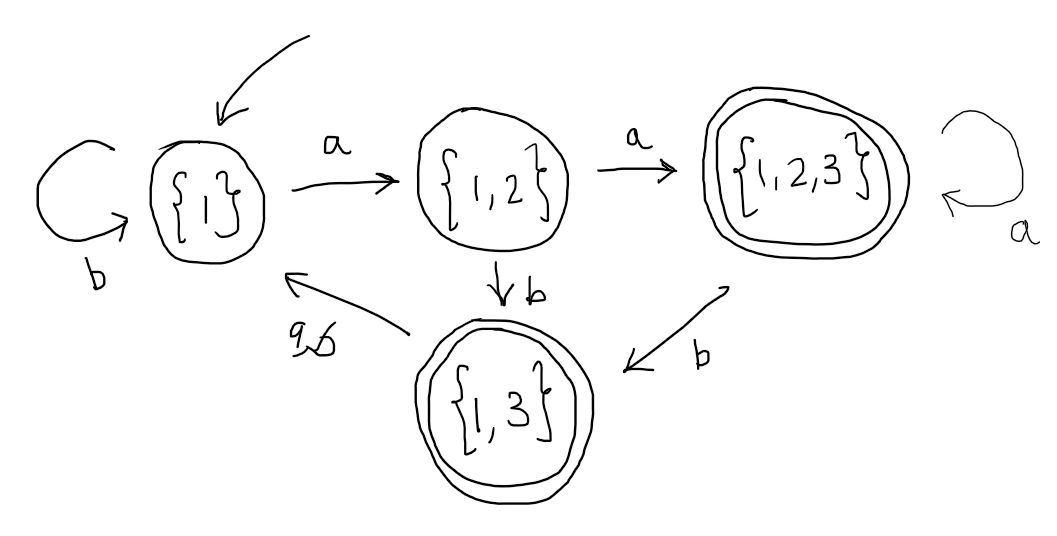
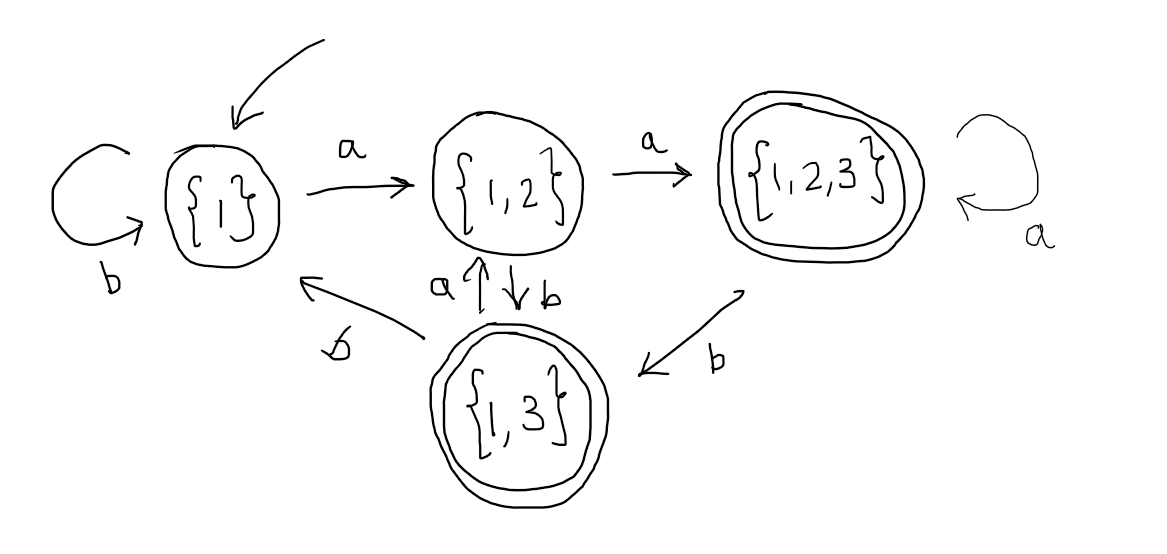
determinism notes

diff --git a/regular/determinsim.md b/regular/determinsim.md
@@ -1,0 +1,190 @@
+---
+layout: math
+title: Determinism
+nav_order: 8
+mathjax: true
+parent: Regular Expressions
+---
+
+# Determinism
+
+We have sometimes called the computations that can performed by regular expressions or finite automata *non-deterministic*.  Intuitively, it means that there are arbitrary choices that the computation can make, and that we consider a computation to have *succeeded* (e.g. that a word is accepted) just if there is *some* way to make the right choices.
+
+Strictly speaking, it should be called *existential* (referring to *some* above) or *angelic* non-determinism, because there is another dual, kind of non-determinism: in *universal* nondeterminism we only consider a computation to have succeeded if all choices lead to success. However, we will not examine universal non-determinism in this unit.  
+
+Finite automata that *do not* have arbitrary choices to make are called *deterministic*.  At any point in time, their behaviour is uniquely *determined* by their current state and the next letter of the input.  This is guaranteed by the following definition.
+
+{: .defn }
+A finite automaton $$(Q,\,\Sigma,\,\Delta,\,q_0,\,F)$$ is called __deterministic__ just if there are no $\epsilon$-transitions and, for each pair $(q,a) \in Q \times \Sigma$ of state and letter, there is exactly one state $p$ that the machine can transition to, i.e. $$(q,a,p)$$ is the only element of $\Delta$ with first two components being $q$ and $a$ respectively.
+
+It is easy to check the diagram of a finite automaton to see if it is deterministic, you just need to check that, for each state, there is exactly one transition coming out of that state for each letter of the alphabet, and no others.  
+
+The following automaton, which recognises the language of words over $\{a,b,c\}$ that contain $abc$ as a substring.  It is deterministic because, if we put our finger on any state, we will find exactly three outgoing transitions, one labelled $a$, one labelled $b$ and the other labelled $c$.
+
+<img src="../assets/automata/deterministic-abc.png" style="max-width:400px">
+
+Deterministic finite automata (DFA) have some great properties.  First and foremost, if we fix a word to give to the automaton as input, there is exactly one run over that word.  On the one hand, the automaton never gets stuck whilst processing a word: suppose it is in some state $q$ and the next letter is $a$, well the definition says that there is a transition out of state $q$ labelled by letter $a$, so progress can be made by taking that transition.  On the other hand, there are no choices, there is only one transition out of each state labelled with a given letter.
+
+This means that deciding whether a deterministic automaton accepts a given word is easier.  We no longer have to *find* an accepting run, we just follow the only applicable transition in each state until we have consumed the whole word and check that the state we reach at the end is accepting.  Conversely, we no longer have to reason about all possible runs over a given word $w$ to show that $w$ is *not accepted*, because there is only one possible run.
+
+A consequence of this is that it is very easy to express the complement of a language when the original language is expressed as a deterministic finite automaton.  All we need to do is to take the original automaton and swap the status of accepting and non-accepting states.
+
+{% include defn_complement.liquid %}
+
+If $M$ accepts a word $w$ then, since $M$ is deterministic, there is a unique run over $w$ and it must end in an accepting state, say $q \in F$.  The automaton $\bar{M}$ has the same states and the same transitions, so it will have the same run over $w$ but, in $\bar{M}$, $q$ is now a non-accepting state.  Since $\bar{M}$ must also be deterministic, this is the only run over $w$, so $w$ is rejected.
+
+## Non-determinism as a programming paradigm
+
+So, then why do we not just restrict our attention to DFA?  Non-determinism is a feature that we can use to make designing automata (and programs) easier.  For example, the DFA given above recognises the language $$\{w \in \{a,b,c\} \mid \text{$w$ contains $abc$ as a substring} \}$$, but it is rather complicated.  Compare with a non-deterministic finite state automaton (NFA) that recognises the same language:
+
+<img src="../assets/automata/nondeterministic-abc.png" style="max-width:400px">
+
+If you are comfortable with the idea of non-determinism, then I would argue that this second automaton is a much clearer expression of the language of words containing a substring $abc$.
+
+The conceptually difficult part of understanding non-determinism is grasping that you cannot necessarily tell if a word is accepted from a single run of the machine: in an non-deterministic finite automata (NFA) if a particular run is not accepting (does not end in an accepting state, or does not even consume the whole word), you cannot know for certain that the word is rejected, because there may be another run over the same word that *is* accepting.  So, it does not fit with our everyday experience of machines, which is that they take an input, do some processing and, on the basis of this processing, make a decision (in this case ACCEPT or REJECT).
+
+However, there is an informal but popular way to understand non-determinism that does fit with our model of machines described in the previous sentence.  According to this, we think of the machine performing a single run and making the decision at the end of the run, but the machine has the special power of being able to *correct guesses*.  What this means is that, when presented with a choice of transition due to nondeterminism, the machine will always take a transition that leads eventually to an accepting state.  Of course, this power to seemingly see into the future also does not accord with our everyday understanding of machines, but we will resolve this shortly.
+
+For now, I want you to know that this special power of making *correct guesses* leads to a new tool that you can use in the design of finite automata.  If you can rephrase the property of strings that you are looking to express as *guess X, then verify X*, it becomes amenable to non-determinism.  For example, the property of having $abc$ as a substring can be reformulated as "guess where the substring $abc$ starts, then verify that the next three letters are $abc$".  This is the strategy employed by the previous automaton.
+
+Earlier, we saw the automaton that accepts words that either have an even number of $1$ or contain the substring $aa$.
+
+<img src="../assets/automata/substrings.png" style="max-width:400px">
+
+The design of this automaton is based on "guess whether the word contains $aa$ or has an even number of $1$s, then verify that".
+
+Suppose we want to design an automaton to recognise the language $$\{wa\ell \mid w \in \{a,b\}^*, \ell \in \{a,b\} \}$$ of words over $$\{a,b\}$$ that have an $a$ in the second to last position.  A DFA for this language requires some serious thought, but an NFA is quite straightforward: whenever we see an $a$, we guess whether or not we have come to the second to last letter, and if we guess so, then verify it is second to last.
+
+<img src="../assets/automata/a-2nd-to-last.png" style="max-width:400px">
+
+More advanced general purpose programming languages, like Haskell, also allow you to program with non-determinism.  In Haskell, non-determinism is treated as an effect, so it can be implemented using the Monad interface.
+
+To see an example of what it looks like, consider the old constraint satisfaction puzzle:
+
+<img src="../assets/automata/send-more-money.png" style="max-width:300px">
+
+The problem is to find an assignment of *distinct* digits $0$--$9$ to the letters $S$, $E$, $N$, $D$, $M$, $O$, $R$ and $Y$ such that the equation is satisfied.  For example, one solution is to assign as follows:
+
+$$
+  \begin{array}{c}
+    S = 2\\
+    E = 8\\
+    N = 1\\
+    D = 7\\
+    M = 0\\
+    O = 3\\
+    R = 6\\
+    Y = 5
+  \end{array}
+$$
+
+Since then the equation is satisfied:
+
+<img src="../assets/automata/smm-soln.png" style="max-width:300px">
+
+I discovered this solution using the following Haskell program:
+
+~~~ haskell
+digits = [0..9]
+
+sendMoreMoney =
+  do s <- digits
+     e <- digits \\ [s]
+     n <- digits \\ [s,e]
+     d <- digits \\ [s,e,n]
+     m <- digits \\ [s,e,n,d]
+     o <- digits \\ [s,e,n,d,m]
+     r <- digits \\ [s,e,n,d,m,o]
+     y <- digits \\ [s,e,n,d,m,o,r]
+     guard (y == (d + e) `mod` 10)
+     let c1 = (d + e) `quot` 10
+     guard (e == (n + r + c1) `mod` 10)
+     let c2 = (n + r + c1) `quot` 10
+     guard (n == (e + o + c2) `mod` 10)
+     let c3 = (e + o + c2) `quot` 10
+     guard (o == (s + m + c3) `mod` 10)
+     guard (m == (s + m + c3) `quot` 10)
+     return (s,e,n,d,m,o,r,e,m,o,n,e,y)
+~~~
+
+I am not going to explain this Haskell program in detail, but if you understand how Monads work, then you can look up the list monad in order to see the nuts and bolts of what is going on.  However, at a conceptual level, the program first non-deterministically *guesses* the digit that should be assigned to $s$, which can be any digit, the digit that should be assigned to $e$, which can be any digit other than the digit assigned to $s$, the digit assigned to $n$, which can be any digit except that chosen for $s$ or $e$ and so on.  Then it simply *verifies* that the equation is satisfied by those choices, i.e. that the digit assigned to $y$ is the sum of the two digits assigned to $d$ and $e$ modulo $10$ and so on.  Finally, we just return the assignment.
+
+## Determinisation
+
+Of course, in the end we must run this Haskell program on a real machine, and we will want to run our finite automata on a real machine too in order to match strings.  Unfortunately, real machines do not have the power to make magic *correct guesses*.  Luckily, we can always compile finitary non-determinism down into something more mundane (and deterministic), just by exploring all the possibilities at once.  This process is called *determinisation*.
+
+I will describe the determinisation of finite automata.  Given any finite automaton $M$, we can mechanically (by an algorithm) construct a new, *deterministic* finite automaton $N$ which recognises the same language as $M$, i.e $L(N) = L(M)$.  It can be done in one step, but we will do it in two so that the explanation is a bit clearer.  
+
+First we remove any epsilon transitions from $M$.  We could use the $\epsilon$-closure operator that you saw in the previous problem sheet for this, or we can just compute, for each pair of states $p$ and $q$ of $M$, whether it is possible to reach $q$ from $p$ whilst reading in a single letter $a$.  Using this idea, we can create a new automaton as follows:
+
+{% include defn_e_closure.liquid %}
+
+This automaton $$\epsilon^*(M)$$ recognises the same language as $M$: $$L(\epsilon^*(M)) = L(M)$$, but does not use any $\epsilon$-transitions.  So, since we can always construct an automaton $$\epsilon^*(M)$$ that is equivalent to the automaton $M$ we are interested in, we may as well assume that the automaton we are interested in does not have $\epsilon$-transitions.
+
+Given an automaton $N$ without $\epsilon$-transitions, we can determinise the automaton by constructing a new automaton $$\pow(N)$$ which simulates a version of $N$ running all non-deterministic choices simultaneously.
+
+As usual, the first step in designing $$\pow(N)$$ is to think about what the automaton will need to remember in between reading in each letter.  Take a look at the automaton above again, reproduced here for convenience:
+
+<img src="../assets/automata/a-2nd-to-last.png" style="max-width:400px">
+
+Imagine a kind of parallel version of this automaton, in which all non-deterministic choices can be taken simultaneously.  We would start in state 1 as usual, then if we see an $a$, the machine would somehow take both $a$ transitions simultaneously, and be in *both* state $1$ and state $2$.  Now suppose it sees another $a$ after that.  From state $1$ it can again stay in state $1$ or go to state $2$, and from state $2$ (remember, it took two transitions simultaneously, so it was in both state $1$ and state $2$ at the same time) it can only go to state $3$.  So, if we take all these transitions simultaneously, the automaton will be in states $1$, $2$ and $3$ at the same time.  
+
+It seems like what we need is for $\pow(N)$ to remember the *set of possible states* that $N$ can be in after reading in any prefix of the word.  The idea of the automaton will be that $\pow(N)$ is in state $$\{q_1,...,q_k\}$$ after reading in $w$ just if $N$ could be in any $q_1$, or $q_2$, or ... or $q_k$ after reading in $w$, depending on which choices it made.  
+
+Formally, the construction is as follows.  It is helpful to use the following notation.  If $\Delta$ is a set of transitions, $p$ is a state and $a$ a letter, then we write $\Delta(p,a)$ for the set $$\{q \mid (p,a,q) \in \Delta \}$$.
+
+{% include defn_powerset.liquid %}
+
+Although $\pow(N)$ has a state for *every* subset of state of $N$, in most cases it will not use all of them: some subsets will not be correspond to the possible choices in any computation, and so will not be readable from the initial state.  So, in practice, a good way to compute $\pow(N)$ - to carry out this construction - is to create the sets of states on demand based on a simulation of $N$.  
+
+Let's do this on the automaton above, which I will temporarily refer to as $N$ for short.  We start by putting down the initial state of $\pow(N)$, which is the singleton set $$\{1\}$$.  Then we ask ourselves, what is the set of all states that can be reached by starting in state $1$ and reading in an $a$?  An inspection of $N$ reveals that this is the set $$\{1,2\}$$, so we add this set as a new state of $\pow(N)$ and add a transition from $$\{1\}$$ to $$\{1,2\}$$ on $a$.  Next, we ask ourselves, what is the set of all states that can be reached by starting in state $1$ and reading in a $b$?  Inspection of $N$ tells us this is just $$\{1\}$$ again, so we place a self-loop on $$\{1\}$$ labelled $b$.
+
+Now we have covered all the possibilities for state $\{1\}$, because we know what happens on reading and $a$ and what happens on reading a $b$.  We next turn to the new state, $$\{1,2\}$$ and ask: what is the set of all states that can be reached by $N$ when it starts from any state in the set $$\{1,2\}$$ by reading an $a$.  To answer this we have to sum up (union) the states that $N$ can reach starting in $1$ and the states that $N$ can reach starting in $2$.  From state $1$, we already know that $N$ can reach states $1$ and $2$ by reading an $a$, and from state $2$, $N$ can reach only state $3$.  We take the union $$\{1,2\} \cup \{3\}$$ to obtain a new state $\{1,2,3\}$ which tells us all the states that $N$ can reach when starting from any state in $$\{1,2\}$$ by reading in an $a$.  We ask the same question again for letter $b$, and obtain the set $$\{1,3\}$$ because $N$ can transition from state $1$ to itself on $b$ and $N$ can transition from $2$ to $3$ on $b$.  
+
+Continuing in this way, we obtain $\pow(N)$:
+
+<img src="../assets/automata/determinised.png" style="max-width:500px">
+
+And this automaton has the property that (a) it is deterministic and (b) the state $X$ it ends at after reading in a word $w$ is exactly the set of all possible states that $N$ can end at after reading in the same word $w$.  For example, a run of this automaton on word $aab$ ends in state $$\{1,3\}$$.  You can verify that these are exactly the states that $N$ can end in after reading in $aab$, depending on what choices are made.  
+
+Therefore, if, after processing the word $w$, $\pow(N)$ ends in a state that contains an accepting state of $N$, this means that there is a possible run of $N$ that ends in this accepting state, and hence $N$ would accept this word.  That is why the accepting states of $\pow(N)$ are those sets of states that contain an accepting state of $N$.
+
+However, the automaton above, although satisfying all the properties we desired of it, is not exactly as I have described in the formal description of the construction.  As mentioned earlier, the formal description says that there is a state of $\pow(N)$ for *every* set of states of $N$.  So really, we are missing this piece:
+
+<img src="../assets/automata/determinised-spare.png" style="max-width:500px">
+
+However, this piece is completely disconnected from the initial state $$\{1\}$$, so typically we do not bother to include it, even though the formal description would have us do so.  Intutively, the reason it is disconnected is because each of the sets involved, e.g. $$\{2,3\}$$ do not represent possible non-deterministic computations of $N$: there are no words that have runs in $N$ that end in either state 2 or 3 but not state 1.
+
+## Applications
+
+Since we have a way, via the proof of Kleene's Theorem, to convert between regular expressions and finite automata, determinsation has a couple of useful consequences for our language of regular expressions.
+
+1. We now have a way to implement regular expressions on a machine, by compiling them down to a deterministic automaton.  A deterministic automaton can be implemented just using a loop that, on each iteration, reads the next letter of the input and keeps track of the current state in a variable.  For example, if we number the states of the automaton above as: $$1 := \{1\}$$, $$2 := \{1,2\}$$, $$3 := \{1,2,3\}$$, $$4 := \{1,3\}$$, then we can code:
+
+        q := 1
+
+        while input is not empty do
+          x := next letter of input
+          if q = 1 and x = a then 
+            q := 2
+          else if q = 1 and x = b then
+            q := 1
+          else if q = 2 and x = a then
+            q := 3
+          else if q = 2 and x = b then
+            q := 4
+          else if q = 3 and x = a then
+            q := 3
+          else if q = 3 and x = b then
+            q := 4
+          else if q = 4 then
+            q := 1
+
+        if q = 3 or q = 4 then
+          return ACCEPT
+        else
+          return REJECT
+
+    This can be made more generic by storing the transitions in a list of pairs or a 2d array and doing lookups.
+
+2. We can use the fact that deterministic automata can be negated to add a negation operator $\sim$ to our language of regular expressions.  To compile $\mathord{\sim}\,R$ we would first compile $R$ to a deterministic automaton, then exchange its accepting and non-accepting states.
